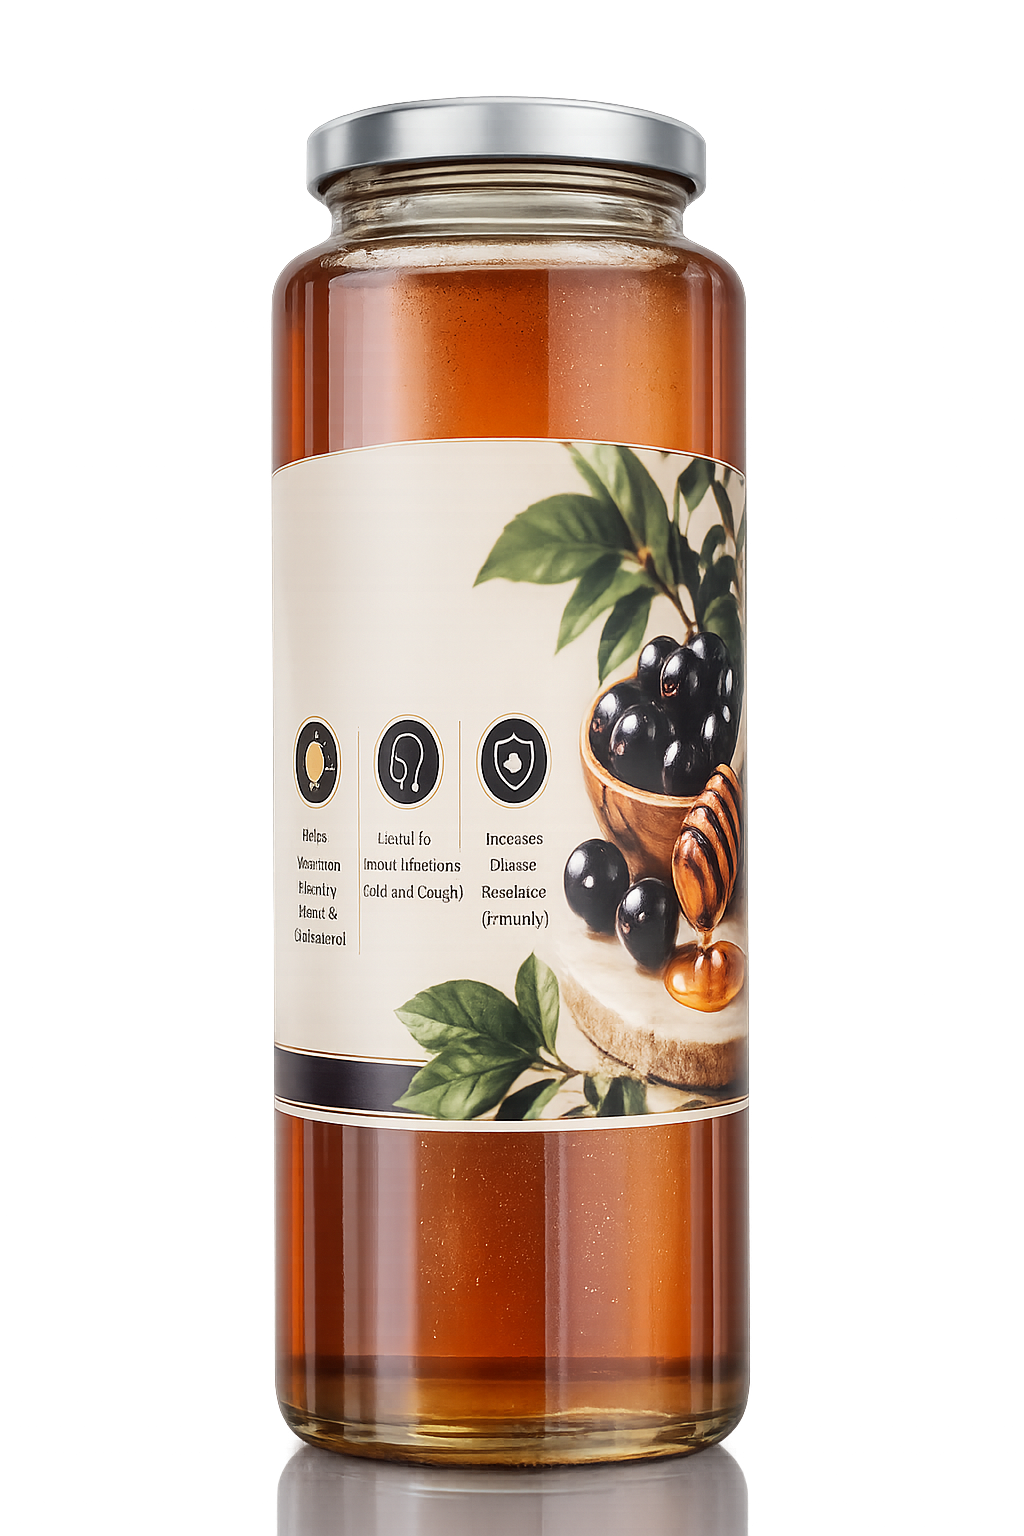
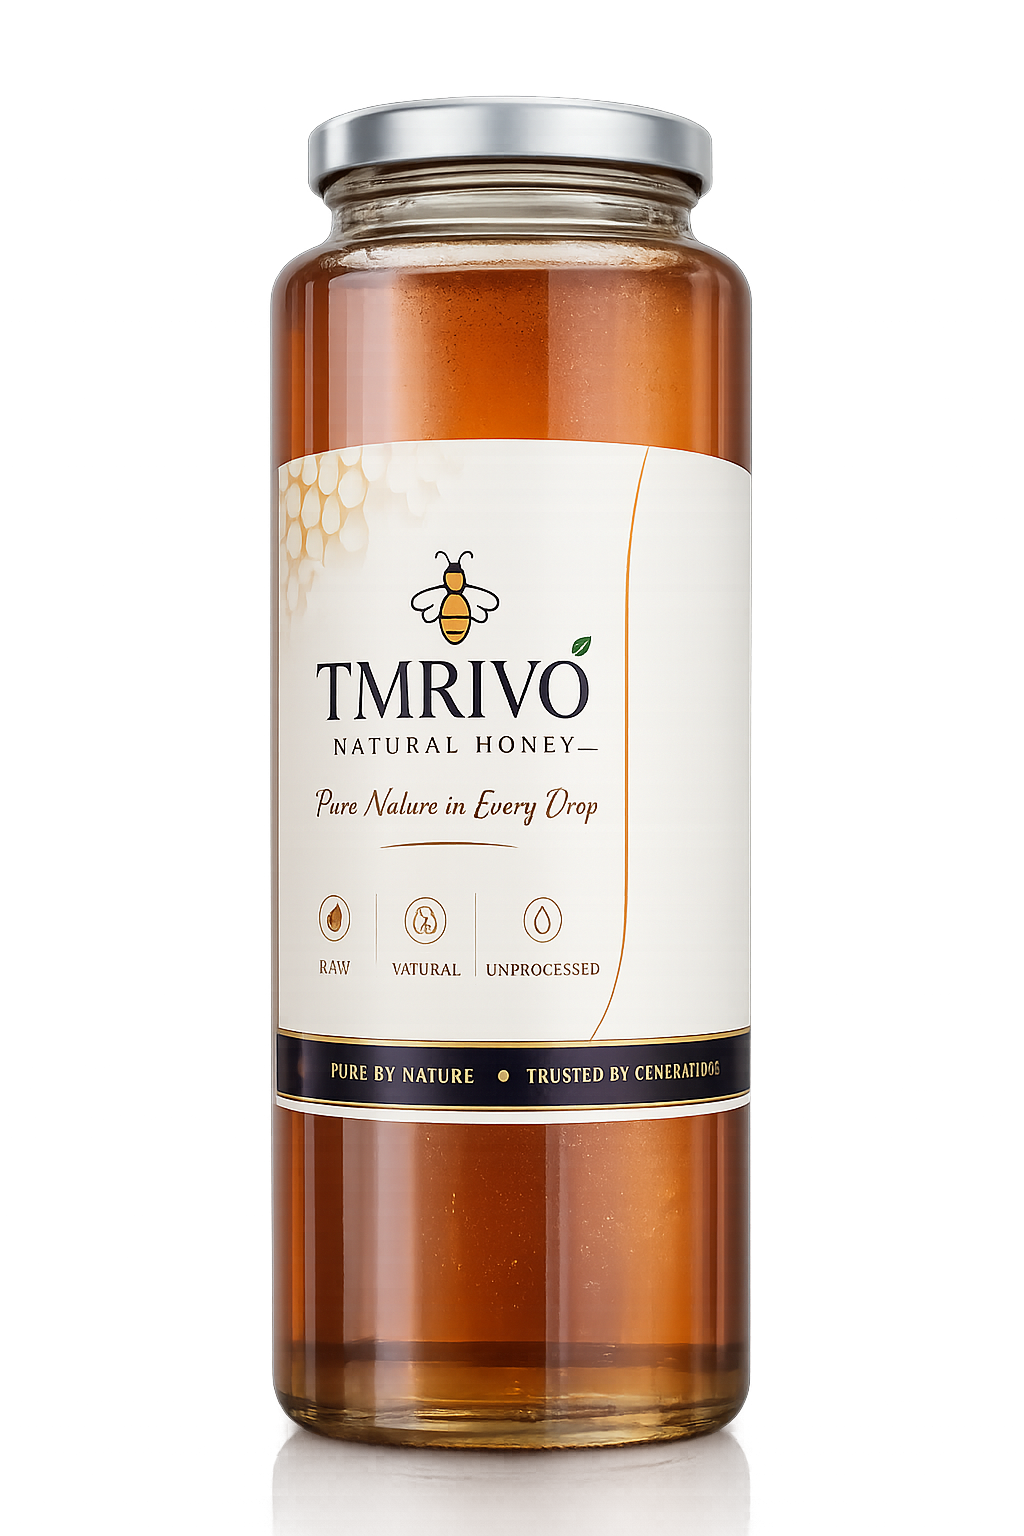
second

Changed region(s): [[0.25, 0.0625, 0.75, 1.0], [0.4688, 0.1562, 0.5, 0.1875]]

diff --git a/src/Data/ProductItems.jsx b/src/Data/ProductItems.jsx
@@ -7,6 +7,14 @@ import multiFlowerImg3 from '../Assets/MultiFloer/img3.png';
 import jamunHoneyImg1 from '../Assets/JamunHoney/img1.png'
 import jamunHoneyImg2 from '../Assets/JamunHoney/img2.png'
 import jamunHoneyImg3 from '../Assets/JamunHoney/img3.png'
+
+
+import gingerHoney1 from '../Assets/GingerHoney/img1.jpeg'
+import gingerHoney2 from '../Assets/GingerHoney/img2.png'
+import gingerHoney3 from '../Assets/GingerHoney/img3.png'
+
+import neemHoney1 from '../Assets/NeemHoney/img1.png'
+
 export const items=[
     {
         "Multi Flower":[
@@ -65,7 +73,7 @@ export const items=[
                 // discount:30,
                 tags:['Raw Honey','Unprocessed','Pure'],
                 benefits:['Good for sugar (diabetes) patients and obesity','Helps relieve cold-related problems and allergies','Prevents blood clotting problems'],
-                images:[],
+                images:[neemHoney1],
 
             },
             {
@@ -77,7 +85,7 @@ export const items=[
                 // discount:30,
                 tags:['Raw Honey','Unprocessed','Pure'],
                 benefits:['Good for sugar (diabetes) patients and obesity','Helps relieve cold-related problems and allergies','Prevents blood clotting problems'],
-                images:[],
+                images:[neemHoney1],
 
             }
         ]
@@ -91,7 +99,7 @@ export const items=[
                 final_price:349,
                 tags:['Pure Natural','RAW',"Unprocessed"],
                 benefits:['Helps Reduce joint pain','Body pain','Throat Infection','Chest Congestion','Helps in Reducing Body weight','Useful for Acidity,Gas, and Indigestion Problems','Helps Relieve Vomiting and Constipation Problems'],
-                images:[],
+                images:[gingerHoney1,gingerHoney2,gingerHoney3],
 
             },{
                 id:2,
@@ -100,7 +108,7 @@ export const items=[
                 final_price:689,
                 tags:['Pure Natural','RAW',"Unprocessed"],
                 benefits:['Helps Reduce joint pain','Body pain','Throat Infection','Chest Congestion','Helps in Reducing Body weight','Useful for Acidity,Gas, and Indigestion Problems','Helps Relieve Vomiting and Constipation Problems'],
-                images:[],
+                images:[gingerHoney1,gingerHoney2,gingerHoney3],
 
             }
         ]

diff --git a/src/privaterouting/PrivateRouting.jsx b/src/privaterouting/PrivateRouting.jsx
@@ -15,6 +15,7 @@ const PrivateRouting = () => {
                     <Route path="/dashboard" element={<Dashboard />} />
                     <Route path="/products" element={<Products />} />
                     <Route path="/cart" element={<Cart />} />
+                    <Route path="*" element={<Navigate to="/products" replace />} />
                 </Routes>
             </CartProvider>
         </BrowserRouter>